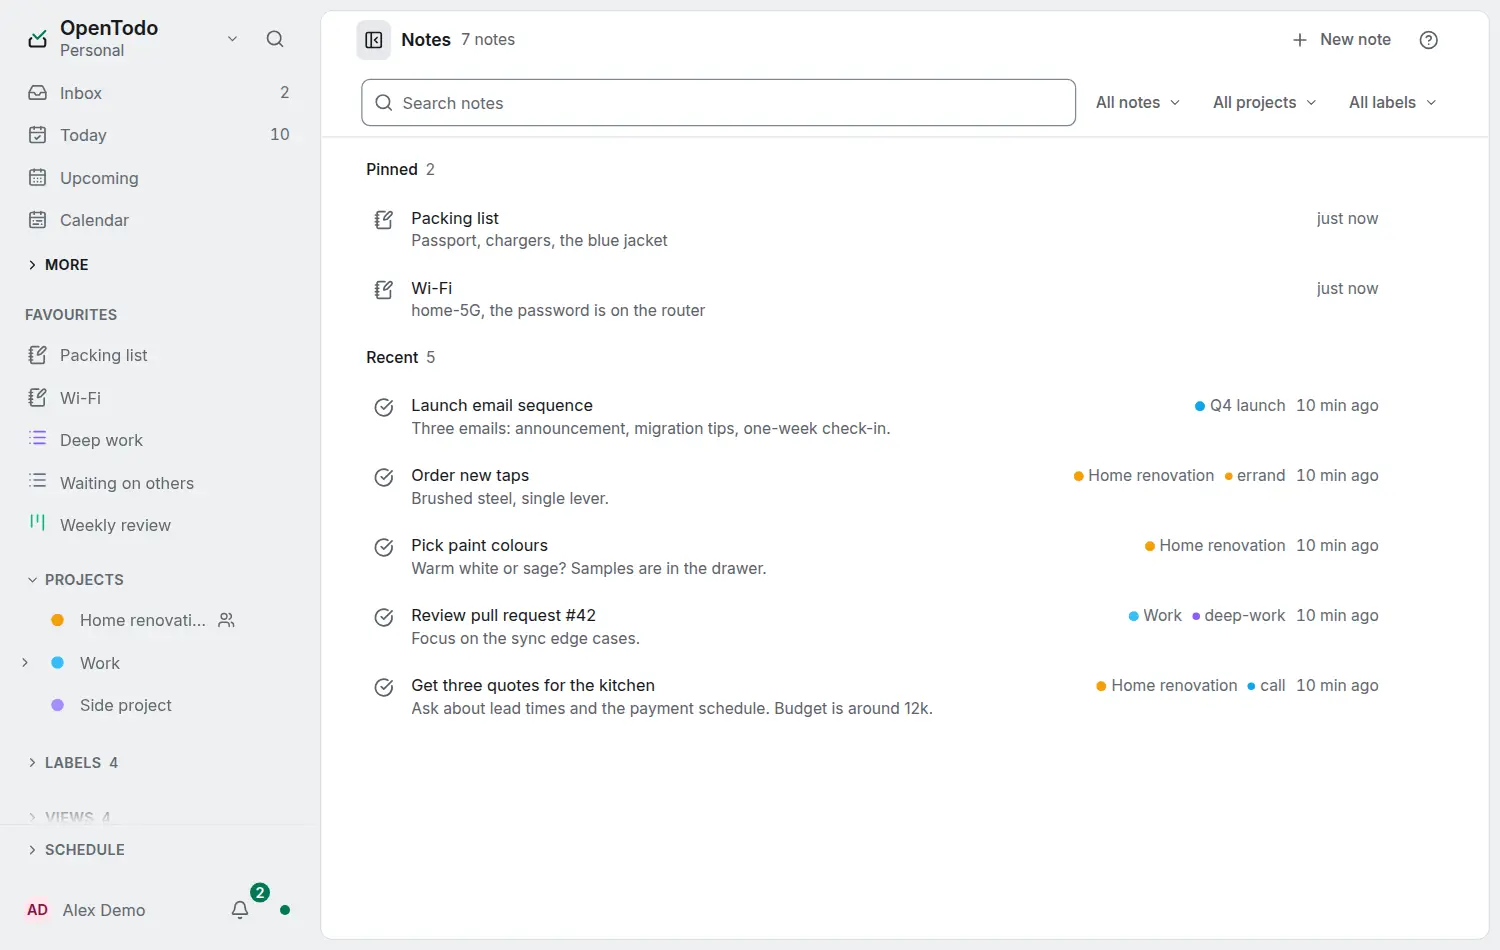
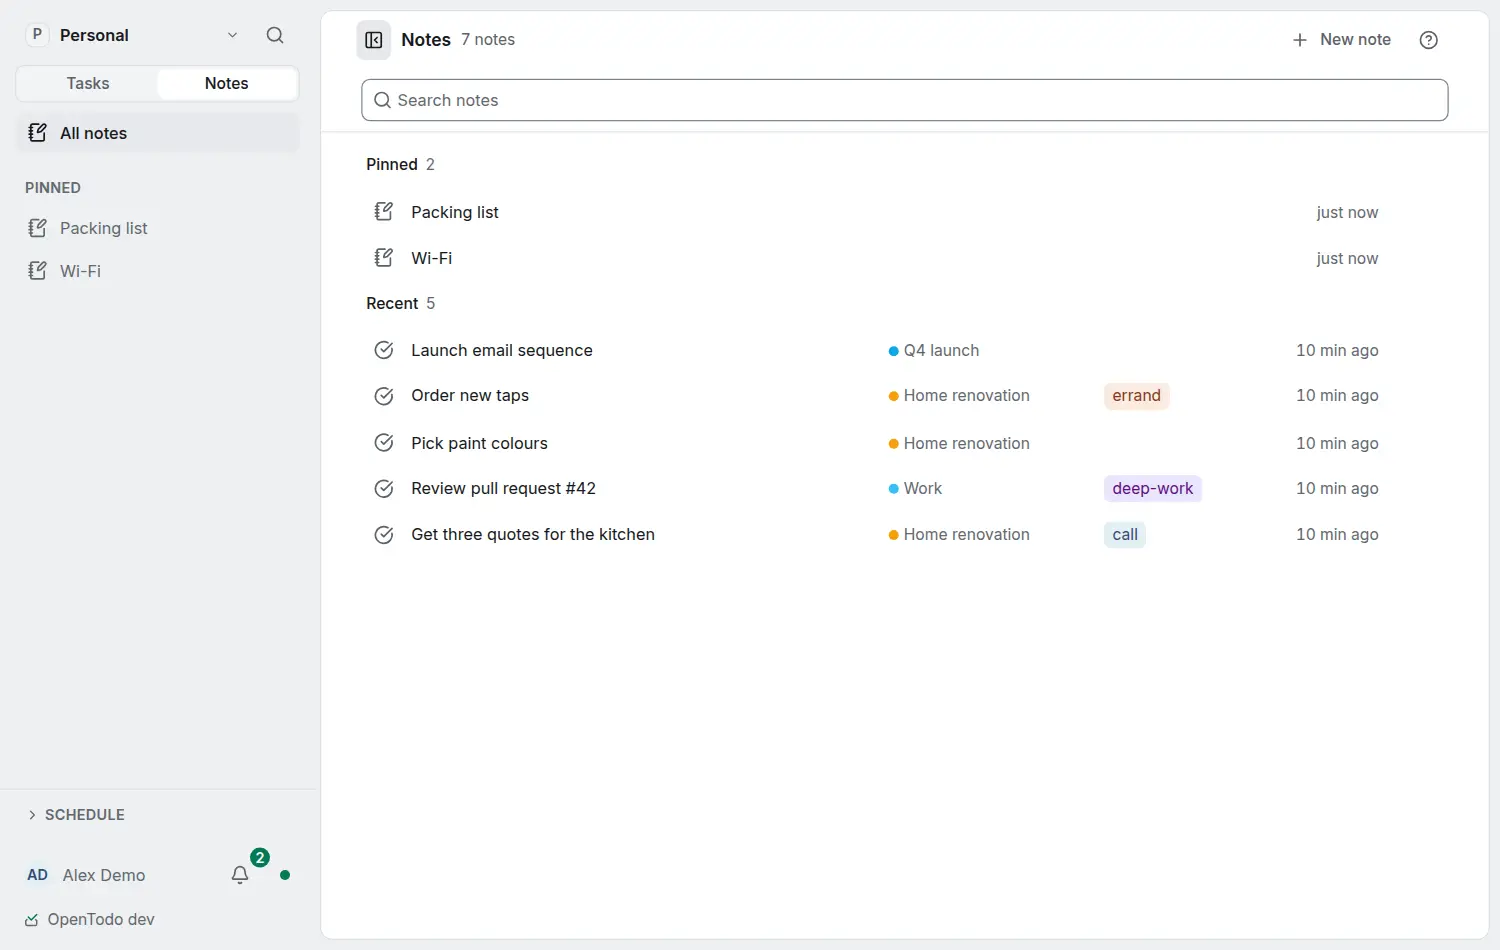
notes-space: phone row widths, docs screenshots
Claude-Session: https://claude.ai/code/session_01Bkw4TZLFDGeMdZR3vWZF13

diff --git a/web/src/app/notes/NoteRow.tsx b/web/src/app/notes/NoteRow.tsx
@@ -40,7 +40,8 @@ export interface NoteRowProps {
 }
 
 /** The row grid (D5): icon, title, place, labels, time; the same tracks on every row, so the columns line up. */
-const GRID = 'grid grid-cols-[1.25rem_minmax(0,1fr)_minmax(0,6rem)_auto] @min-[40rem]/note:grid-cols-[1.25rem_minmax(0,1fr)_10rem_8rem_5rem]'
+// Narrow, the place is as wide as its name up to 5 rem (an empty one takes none), so the title keeps the room.
+const GRID = 'grid grid-cols-[1.25rem_minmax(0,1fr)_auto_auto] gap-x-2 @min-[40rem]/note:grid-cols-[1.25rem_minmax(0,1fr)_10rem_8rem_5rem] @min-[40rem]/note:gap-x-3'
 
 export function NoteRow({ entry, snippet, project, labels, updated, updatedTitle, current, cursor, onOpen, menu }: NoteRowProps) {
   const title = entry.title.trim() || (entry.source === 'note' ? t('Untitled note') : t('Untitled'))
@@ -57,14 +58,14 @@ export function NoteRow({ entry, snippet, project, labels, updated, updatedTitle
         trigger.click()
       } : undefined}>
       <button type="button" data-note-open onClick={onOpen} aria-current={current || undefined}
-        className={`${GRID} min-w-0 flex-1 items-baseline gap-x-3 rounded-control px-2 py-1.5 text-left focus-visible:outline-2 focus-visible:outline-offset-[-2px] focus-visible:outline-focus`}>
+        className={`${GRID} min-w-0 flex-1 items-baseline rounded-control px-2 py-1.5 text-left focus-visible:outline-2 focus-visible:outline-offset-[-2px] focus-visible:outline-focus`}>
         <span className="flex h-5 w-5 items-center justify-center self-center text-muted"><Icon name={SOURCE_ICON[entry.source]} label={SOURCE_NAME[entry.source]()} /></span>
         <span className="flex min-w-0 items-baseline gap-2" data-note-line>
           <span className={`user-text min-w-0 truncate text-body ${snippet?.length ? 'max-w-[60%] shrink-0' : ''} ${entry.title.trim() ? 'text-default' : 'text-muted'}`} data-note-title>{title}</span>
           {entry.marker && <span className="shrink-0 text-meta text-faint" data-note-marker={entry.marker}>{entry.marker === 'completed' ? t('Completed') : t('Archived')}</span>}
           {snippet?.length ? <span className="user-text min-w-0 flex-1 truncate text-meta text-muted" data-note-snippet><Snippet segments={snippet} /></span> : null}
         </span>
-        <span className="flex min-w-0 items-center justify-end gap-1 text-meta text-faint @min-[40rem]/note:justify-start" data-note-place>
+        <span className="flex min-w-0 max-w-20 items-center justify-end gap-1 text-meta text-faint @min-[40rem]/note:max-w-none @min-[40rem]/note:justify-start" data-note-place>
           {project && <span aria-hidden className="h-2 w-2 shrink-0 rounded-full" style={{ backgroundColor: project.color }} />}
           <span className="truncate">{place}</span>
         </span>
